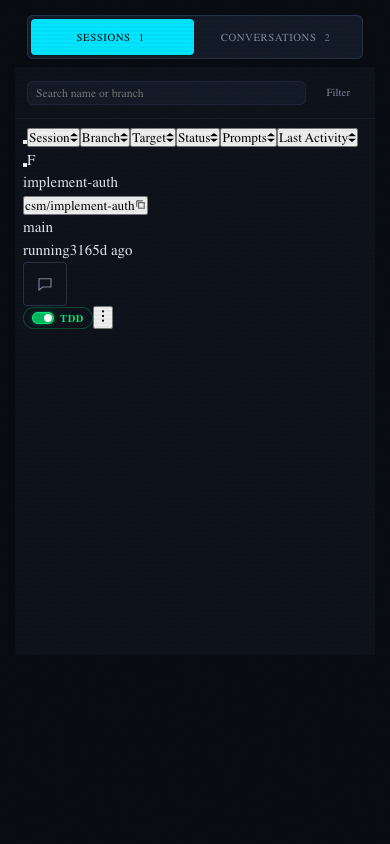
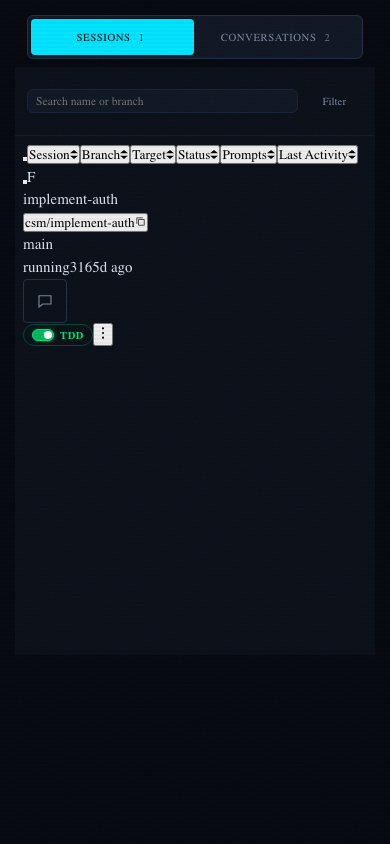
Graph workflow join final_publish 1eb80735-76e5-4e9d-91e2-a0b6fe75cd42: wave-cockpit -> __session__

Changed region(s): [[0.0615, 0.0924, 0.9231, 0.4313], [0.8308, 0.0924, 0.8923, 0.1232]]

diff --git a/src/features/project-detail/cockpit/styles/cockpit.css b/src/features/project-detail/cockpit/styles/cockpit.css
@@ -2,14 +2,16 @@
  * Project-conversation cockpit — preserved residual only.
  *
  * The cockpit shell, panes, tabs, transcript, sessions, chips, filter popover,
- * and main-diff surface are authored as Tailwind utilities + the shared UI
- * primitives (Tailwind migration, Stage B). What remains here is the
- * preserved-CSS residual the inventory/ratchet keeps scoped forever:
+ * main-diff surface, and the diff slide-over's authored header/body chrome are
+ * authored as Tailwind utilities + the shared UI primitives (Tailwind
+ * migration, Stage B). What remains here is the preserved-CSS residual the
+ * inventory/ratchet keeps scoped forever:
  *   - the `plc-rise-fade` entry keyframe (referenced by the cockpit's
  *     entry-animation utility),
  *   - the read-only diff slide-over portal/overlay positioning + slide
- *     animations (`.plc-diff-*`, rendered by DiffSlideover.tsx),
- *   - the diff slide-over `prefers-reduced-motion` block.
+ *     animations (`.plc-diff-overlay`, `.plc-diff-slideover`),
+ *   - the diff slide-over `prefers-reduced-motion` block and its mobile
+ *     full-width override.
  */
 
 /* ── Entry animation keyframe (referenced from JSX via a utility) ────────── */
@@ -25,7 +27,7 @@
   }
 }
 
-/* ── Diff slide-over (right-anchored, read-only review overlay) ─────────── */
+/* ── Diff slide-over portal (right-anchored, read-only review overlay) ───── */
 
 .plc-diff-overlay {
   position: fixed;
@@ -57,61 +59,6 @@
   from {
     transform: translateX(100%);
   }
-}
-.plc-diff-top {
-  display: flex;
-  align-items: center;
-  gap: var(--space-md);
-  padding: var(--space-sm) var(--space-lg);
-  border-bottom: 1px solid var(--border-default);
-  background: var(--bg-base);
-  flex-shrink: 0;
-}
-.plc-diff-ctx {
-  display: inline-flex;
-  align-items: center;
-  gap: var(--space-xs);
-  font-family: var(--font-mono);
-  font-weight: 600;
-  font-size: 0.76rem;
-  color: var(--text-primary);
-}
-.plc-diff-ctx-dot {
-  width: 6px;
-  height: 6px;
-  border-radius: 9999px;
-  background: var(--green);
-}
-.plc-diff-sub {
-  font-family: var(--font-mono);
-  font-size: 0.66rem;
-  color: var(--text-tertiary);
-}
-.plc-diff-close {
-  margin-left: auto;
-  display: inline-flex;
-  align-items: center;
-  justify-content: center;
-  width: 28px;
-  height: 28px;
-  border-radius: var(--radius-sm);
-  border: 1px solid var(--border-subtle);
-  background: var(--bg-surface);
-  color: var(--text-secondary);
-  cursor: pointer;
-  transition:
-    border-color 0.15s ease,
-    color 0.15s ease;
-}
-.plc-diff-close:hover {
-  border-color: var(--red);
-  color: var(--red);
-}
-.plc-diff-slideover-body {
-  flex: 1;
-  min-height: 0;
-  display: flex;
-  flex-direction: column;
 }
 
 @media (prefers-reduced-motion: reduce) {

diff --git a/src/features/project-detail/cockpit/DiffSlideover.tsx b/src/features/project-detail/cockpit/DiffSlideover.tsx
@@ -11,6 +11,23 @@ export interface DiffSlideoverProps {
   children: ReactNode;
 }
 
+const HEADER_CLASS =
+  "flex items-center gap-md px-lg py-sm border-x-0 border-t-0 border-b border-solid border-border-default bg-bg-base shrink-0";
+
+const CONTEXT_CLASS =
+  "inline-flex items-center gap-xs font-mono font-semibold text-[0.76rem] text-text-primary";
+
+const CONTEXT_DOT_CLASS = "w-[6px] h-[6px] rounded-full bg-green";
+
+const SUBTITLE_CLASS = "font-mono text-[0.66rem] text-text-tertiary";
+
+const CLOSE_CLASS =
+  "ml-auto inline-flex items-center justify-center w-[28px] h-[28px] rounded-sm " +
+  "border border-solid border-border-subtle bg-bg-surface text-text-secondary cursor-pointer " +
+  "transition-[border-color,color] duration-150 ease-[ease] hover:border-red hover:text-red";
+
+const BODY_CLASS = "flex flex-1 min-h-0 flex-col";
+
 function CloseGlyph(): React.JSX.Element {
   return (
     <svg
@@ -65,16 +82,16 @@ export default function DiffSlideover({
         aria-label="Main worktree diff"
         onMouseDown={(e) => e.stopPropagation()}
       >
-        <header className="plc-diff-top">
-          <span className="plc-diff-ctx">
-            <span className="plc-diff-ctx-dot" aria-hidden />
+        <header className={HEADER_CLASS}>
+          <span className={CONTEXT_CLASS}>
+            <span className={CONTEXT_DOT_CLASS} aria-hidden />
             {projectName ? `${projectName} · ` : ""}main · worktree
           </span>
-          <span className="plc-diff-sub">Read-only review</span>
+          <span className={SUBTITLE_CLASS}>Read-only review</span>
           <button
             ref={closeRef}
             type="button"
-            className="plc-diff-close"
+            className={CLOSE_CLASS}
             onClick={onClose}
             aria-label="Close diff"
             title="Close (Esc)"
@@ -82,7 +99,7 @@ export default function DiffSlideover({
             <CloseGlyph />
           </button>
         </header>
-        <div className="plc-diff-slideover-body">{children}</div>
+        <div className={BODY_CLASS}>{children}</div>
       </div>
     </div>
   );

diff --git a/src/features/project-detail/cockpit/DiffSlideover.stories.tsx b/src/features/project-detail/cockpit/DiffSlideover.stories.tsx
@@ -1,0 +1,31 @@
+import type { Meta, StoryObj } from "@storybook/nextjs-vite";
+import { fn } from "storybook/test";
+import DiffSlideover from "./DiffSlideover";
+
+const meta: Meta<typeof DiffSlideover> = {
+  title: "Project Cockpit/DiffSlideover",
+  component: DiffSlideover,
+};
+export default meta;
+
+type Story = StoryObj<typeof DiffSlideover>;
+
+export const Open: Story = {
+  args: {
+    open: true,
+    onClose: fn(),
+    projectName: "command-center",
+    children: (
+      <div
+        style={{
+          padding: 16,
+          fontFamily: "var(--font-mono)",
+          fontSize: "0.72rem",
+          color: "var(--text-secondary)",
+        }}
+      >
+        Read-only diff body
+      </div>
+    ),
+  },
+};
